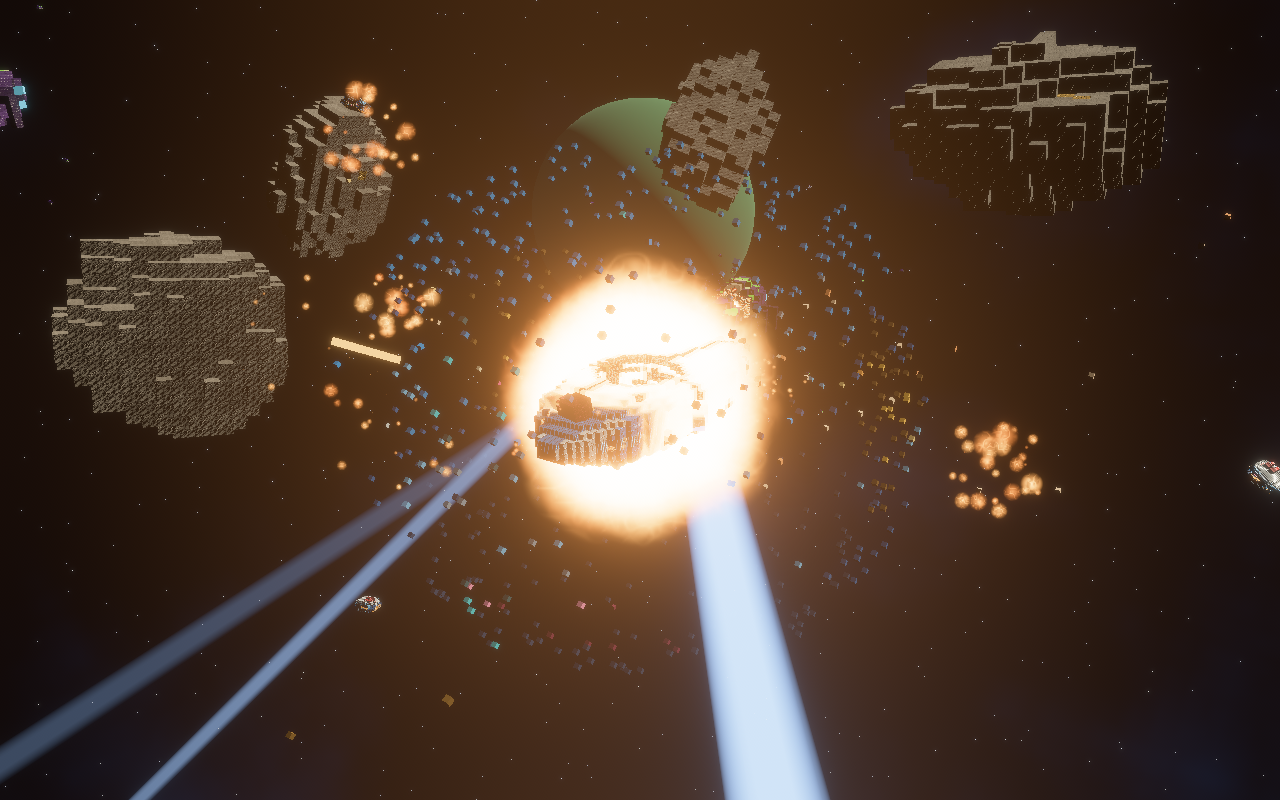
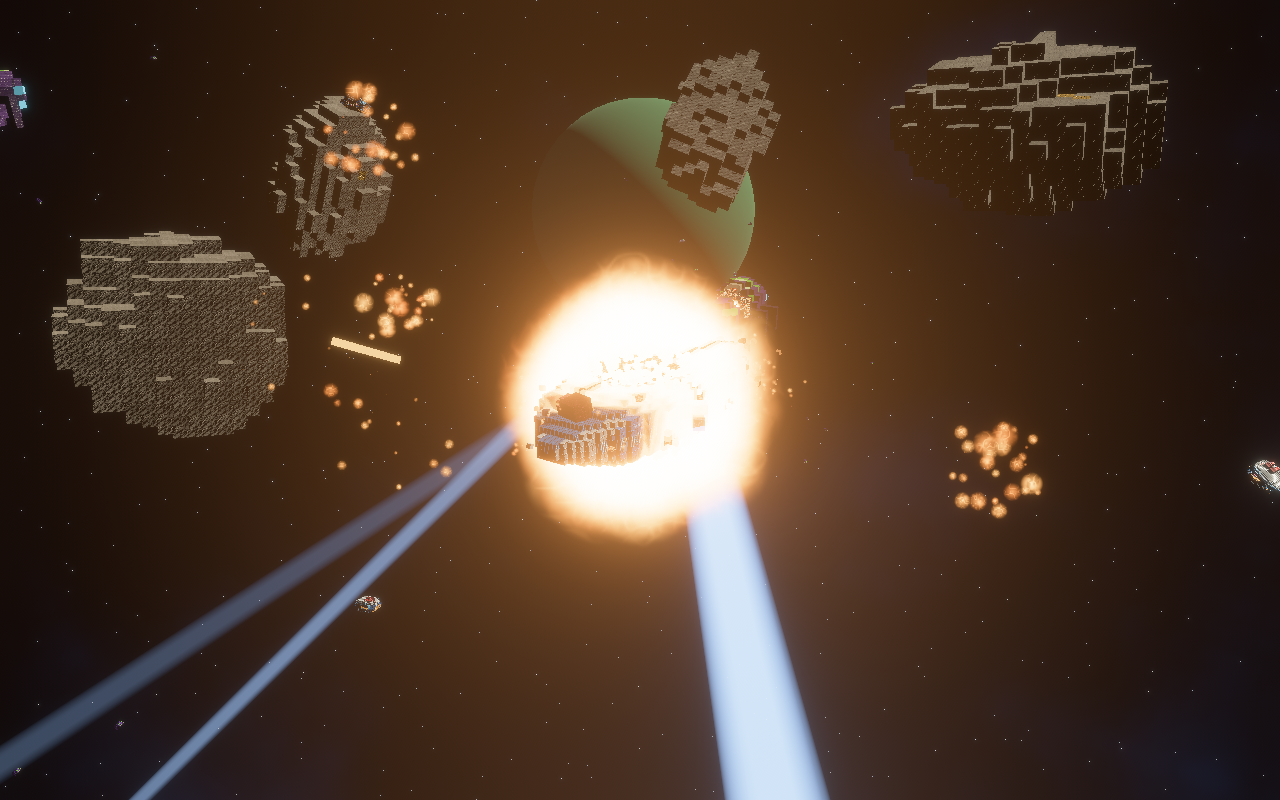
The pictures, measured again on the final binary, and what the floor was
Two runs of the same binary were never going to be byte identical, and the
reason turned out to be two reasons. The CPU read the frame's clock in three
places under --fixed-dt (the one clock commit), which put the wreck scene's
own floor at two percent on the before binary; with that gone the wreck is
byte identical run to run. The GPU's spark and shock rings are claimed with
atomics, so a scene with kills diverges from the order the threads arrived
in, by 0.12% to 2.4% between two runs, and intermittently not at all: the
split binary's battle picture was byte identical to a run of the before
binary, and its wing picture to another.

The final binary against before: order 0.162%, wreck 0.499%, beams 0.638%,
battle 0.485%, wing 3.164%, each inside its scene's floor except where the
change is real: the wreck's debris flies the right distance now, and the
battle's rocks turn through TAU. docs/fx_wreck.png and docs/fx_boom.png are
retaken on the final binary, since the old ones had the debris bug in them.

rustfmt wrapped six more functions over a hundred lines (seventeen now),
which is the next stage's list and is written down as such.

Claude-Session: https://claude.ai/code/session_01S5xU8GXfcLHEtff8wVUhmg

diff --git a/CLAUDE.md b/CLAUDE.md
@@ -116,37 +116,57 @@ before and on the binary from after and compared with `tools/pngdiff.py`:
 | scene | before vs after | the before binary vs itself |
 | --- | --- | --- |
 | order | 0.141% | 0.013%, 0.166%, 0.167% (three runs, every pair) |
-| wreck | 0.032% | 0.249% (two runs of the pre merge binary) |
+| wreck | 0.032% | 2.069% (and 0.249% on the pre merge binary) |
 | beams | 0.733% | 0.847% |
 | battle | 0.429% | 0.418% |
 | wing | 2.869% | 3.144% |
 
 Every share is of pixels moved by more than 8 of 255. The wing is the noisy
-one because it runs three hundred and twenty frames with an order in it,
-and the next section says why an order made a fixed step picture depend on
-the machine; the after picture against the before binary's OTHER run is
-2.221%.
+one: three hundred and twenty frames of kills, with an order in it, and the
+after picture against the before binary's OTHER run is 2.221%.
 
-The floor is two runs of the SAME binary, and it is not nought: the tick
-reads its neighbours' positions out of the buffer it is writing them into
-(`motes[j]` at line 767 of `swarm.wgsl`, `motes[i] = m` at 829), so which
-of them a mote sees already moved depends on thread order, and a software
-rasteriser's thread order is not the same twice. Measured on the order
-picture, three runs of the before binary against each other: 0.013%,
-0.166% and 0.167% of the pixels; the HUD's frame counter alone is about two
-hundred of them, because it reads real time. So a pair is judged against
-that scene's OWN floor, never against a number typed into a skill, and a
-share inside it is a refactor. One trap on the way: the before pictures
-were being taken off `target/release/swarm_app` while cargo was replacing
-it, so the last of them came from the binary under test. Copy a binary aside
-before it is the control for anything.
+**The floor is two runs of the SAME binary, and it was not nought, for two
+reasons it took the whole exercise to tell apart.** The first was the CPU:
+three systems read the frame's own clock under `--fixed-dt` (the next
+section), so the debris, the showcase and an order's ping stood somewhere
+different every run, and the wreck scene's own floor on the before binary was
+two percent. The second is the GPU, and it is intermittent: the spark and
+shock rings are claimed with `atomicAdd`, so which deaths a full ring keeps
+depends on the order the threads arrived in, and the swarm diverges from
+there. Intermittent, because two runs on a quiet machine can arrive in the
+same order, and then they agree to the BYTE: the split binary's battle
+picture was byte identical to one of the before binary's, and its wing
+picture to another, which is also what proves the split beyond any share.
+With the clocks fixed, the wreck scene, which kills nothing after the
+reactor goes, is byte identical run to run, and the scenes with kills differ
+by 0.12% to 2.4% between two runs of the same binary. So a pair is judged
+against that scene's OWN floor, `cmp` is the check only for a scene that has
+one, and the HUD's frame counter, which reads real time, is about two
+hundred pixels of any picture it is in. The whole branch, measured last, on
+the final binary:
 
-**What this stage did not do, on purpose.** The eleven functions over a
-hundred lines are exactly where they were, only in smaller files: `setup`
-(476), `build_hud` (238), `go_critical` (233), `spawn_ship` (180) and the
-rest, and `swarm.rs` and the core's `fx.rs` are still one file each. They
-come apart in the next stage, with the four `SystemSet`s and the explicit
-imports that replace `use crate::*;` once each module knows what it reads.
+| scene | before vs final | the final binary vs itself |
+| --- | --- | --- |
+| order | 0.162% | 0.131% |
+| wreck | 0.499% | 0, byte identical |
+| beams | 0.638% | 0.123% |
+| battle | 0.485% | 0.407% |
+| wing | 3.164% | 2.411% |
+
+The wreck's half a percent is real and is the fix: its debris flew fifteen
+times too far per frame before. The battle's is the rocks turned through
+`TAU` rather than 6.283. One trap on the way: the before pictures were being
+taken off `target/release/swarm_app` while cargo was replacing it, so the
+last of them came from the binary under test. Copy a binary aside before it
+is the control for anything.
+
+**What this stage did not do, on purpose.** The long functions are exactly
+where they were, only in smaller files: `setup` (583 lines once rustfmt had
+wrapped it), `go_critical` (299), `build_hud` (294), `spawn_ship` (205) and
+the rest, seventeen over a hundred after the format against eleven before
+it, and `swarm.rs` and the core's `fx.rs` are still one file each. They come
+apart in the next stage, with the four `SystemSet`s and the explicit imports
+that replace `use crate::*;` once each module knows what it reads.
 `tools/shape.py --check` therefore still fails, on those, and the list it
 prints is that stage's work.
 

diff --git a/docs/proposals/menu-campaign-subsystems.md b/docs/proposals/menu-campaign-subsystems.md
@@ -237,12 +237,12 @@ flowchart TB
 **It is proved by the pictures not changing.** The split moves code and
 changes no behaviour, so every headless render in the suites is taken
 before and after at a fixed step and compared with `tools/pngdiff.py`. Not
-byte for byte: two runs of the SAME binary differ, by up to a sixth of a
-percent of the order picture, because the tick reads its neighbours out of
-the buffer it is writing and a software rasteriser's thread order is not the
-same twice. The acceptance test is the share of pixels that moved, held
+byte for byte, or not always: a scene with no kills in it is byte identical
+run to run, and a scene with kills is not, because the spark and shock rings
+are claimed with atomics and the swarm diverges from the order the threads
+arrived in. The acceptance test is the share of pixels that moved, held
 against that scene's own floor, and a picture over it is a change that has
-to be explained.
+to be explained. (Done: see CLAUDE.md, "The app is folders now".)
 
 Cost: a session for the split and the format, its own pull request, before
 any feature. Half a day of it is moving functions; the rest is the four

diff --git a/.claude/skills/tidy/SKILL.md b/.claude/skills/tidy/SKILL.md
@@ -30,10 +30,11 @@ as "some warnings".
 7. **The pictures, when the change claims to change nothing.** A refactor is
    proved by its renders: copy the binary from before aside, build the one
    from after, take the suite's headless shots on both, and `python3
-   tools/pngdiff.py before.png after.png` on each pair. Two runs of the SAME
-   binary differ (the tick reads neighbours out of the buffer it writes, so
-   thread order shows), by up to about 0.17% of the order picture, so each
-   pair is held against that scene's own floor, two runs of the before
-   binary, and never against `cmp` or a number typed here.
+   tools/pngdiff.py before.png after.png` on each pair. A scene with no
+   kills in it is byte identical run to run and `cmp` is its check; a scene
+   with kills is not, because the spark and shock rings are claimed with
+   atomics and the swarm diverges from the order the threads arrived in, so
+   each such pair is held against that scene's own floor, two runs of the
+   before binary, and never against a number typed here.
 
 Then say, in one line each, what passed, what failed, and what was changed.
